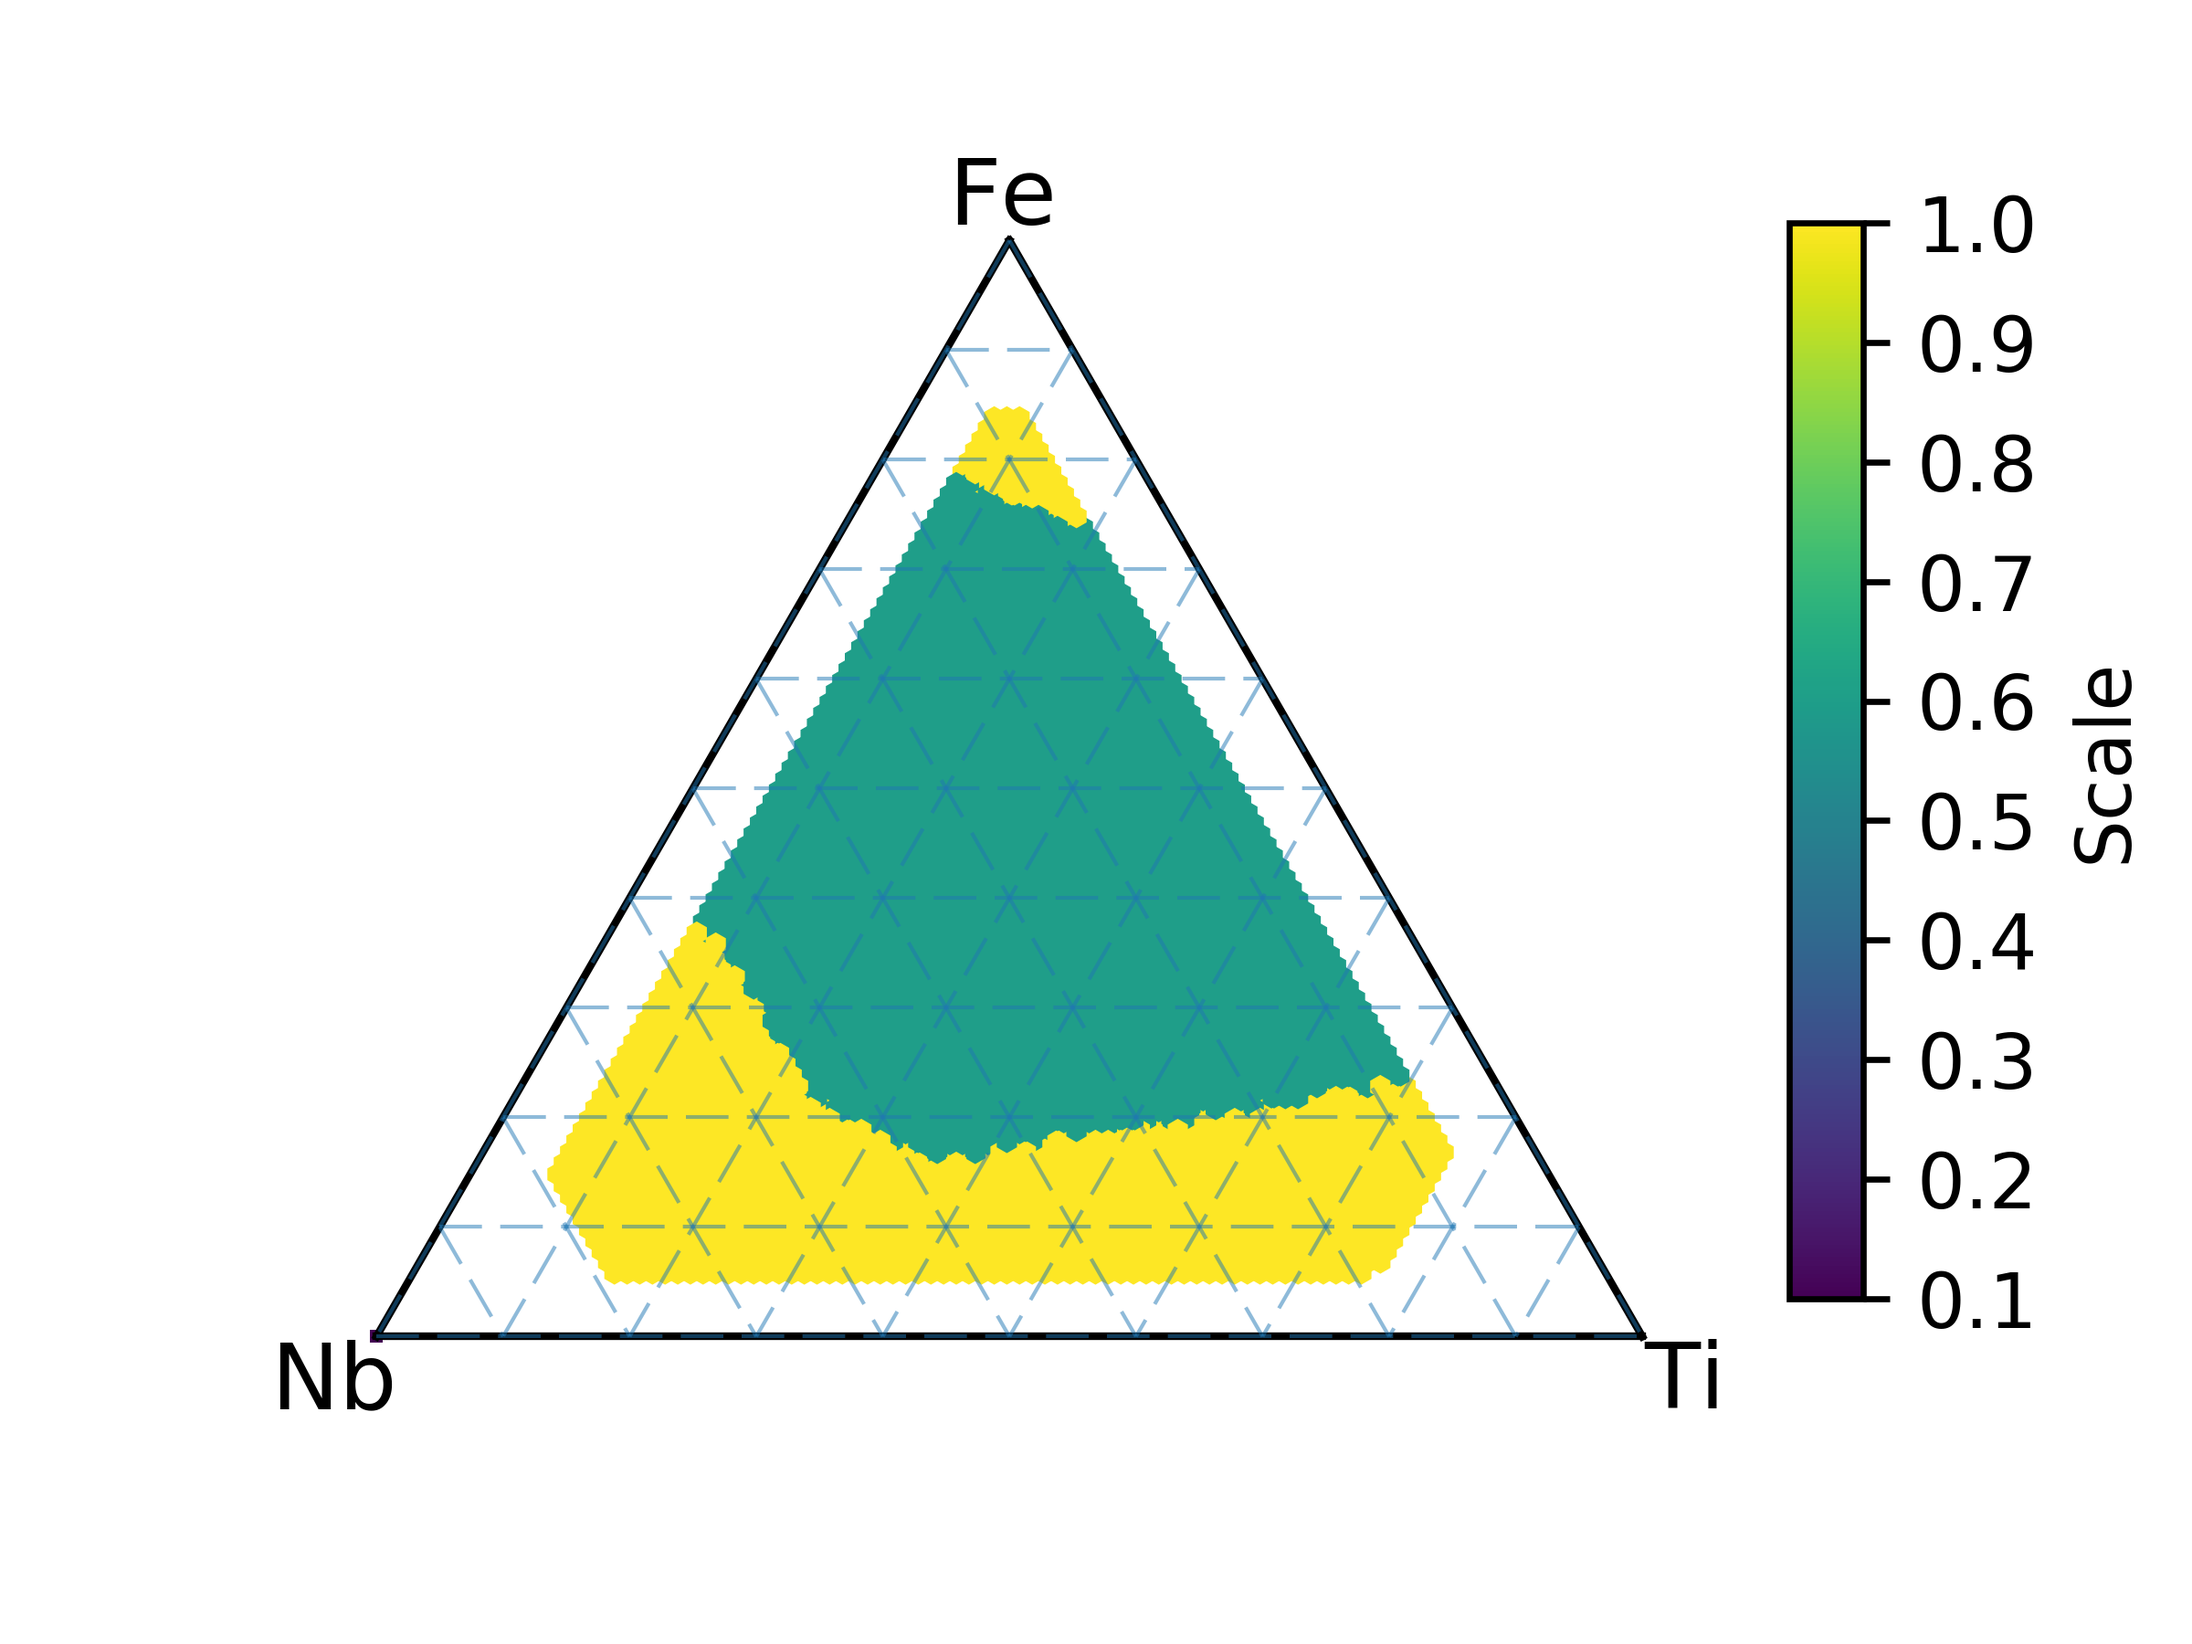
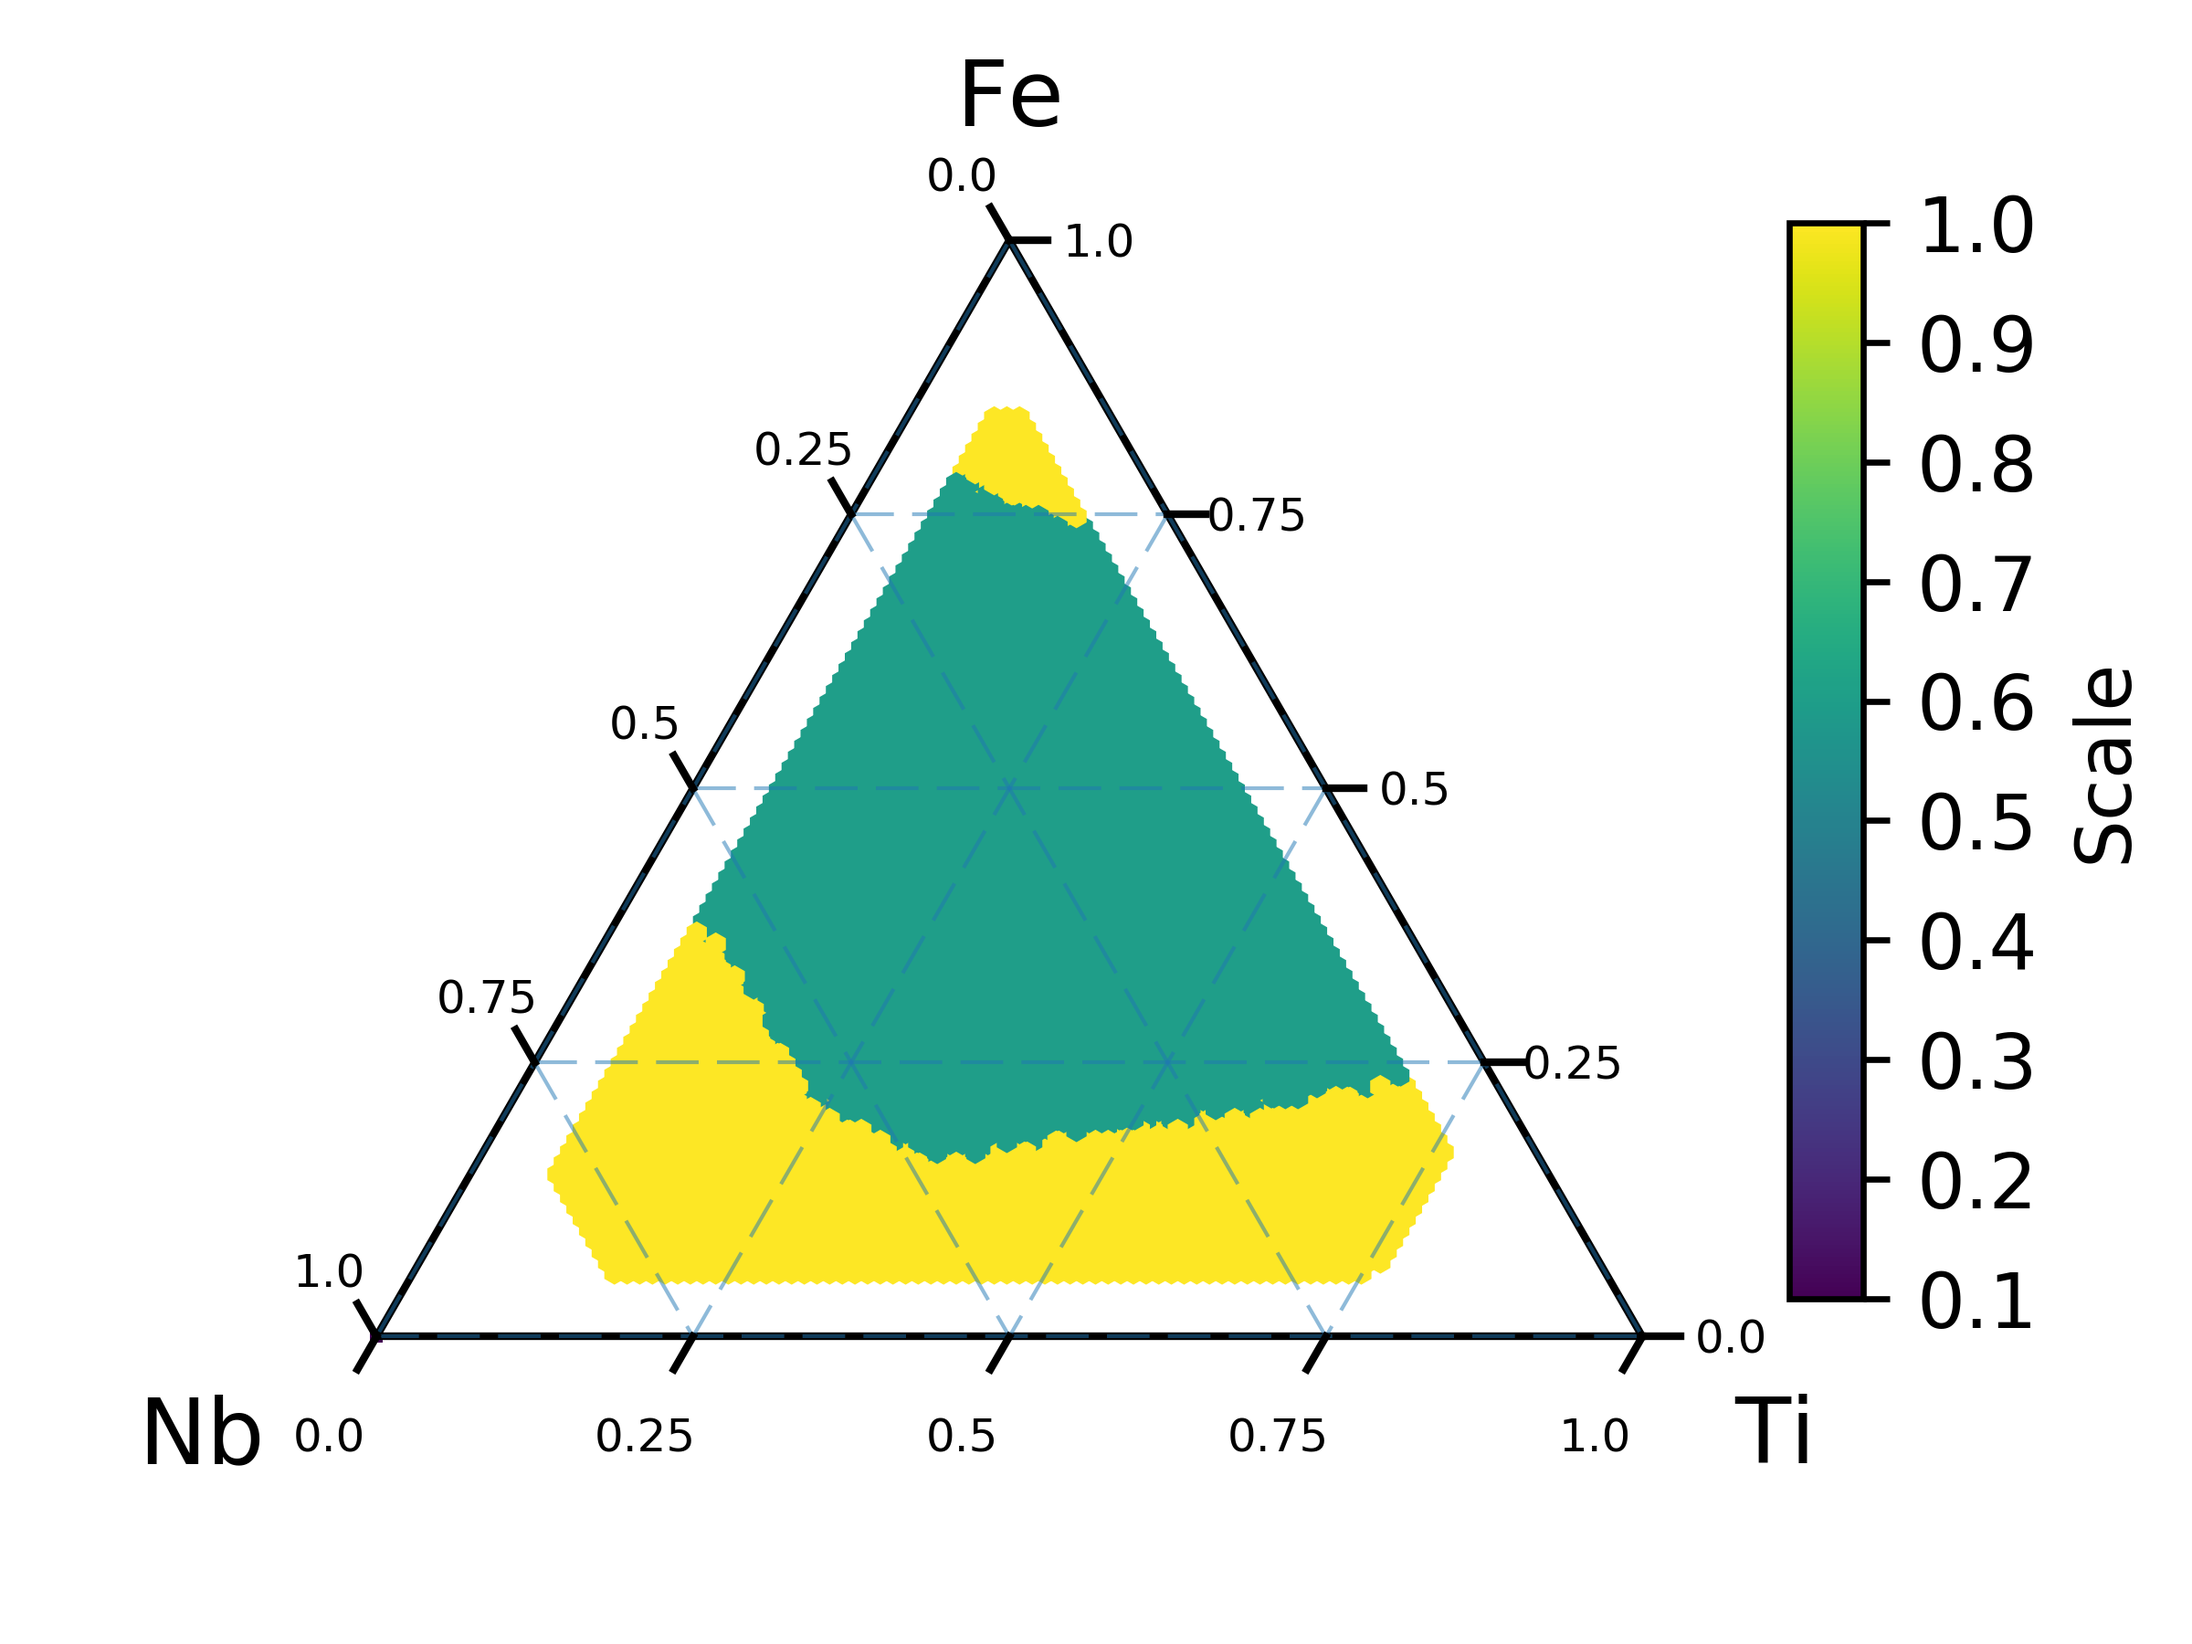
Updated increments

diff --git a/scripts/figure_plotters/plotTernary.py b/scripts/figure_plotters/plotTernary.py
@@ -97,12 +97,12 @@ def plt_ternary_save(data, tertitle='',  labelNames=('Species A','Species B','Sp
 
     if show_ticks:
         tax.boundary(linewidth=1)
-        tax.gridlines(multiple=10, linewidth=lnwdth, alpha=alpha, linestyle=lnsty)
-        ticks = [round(i / float(scale), 1) for i in range(0, scale+1, 10)]
+        tax.gridlines(multiple=25, linewidth=lnwdth, alpha=alpha, linestyle=lnsty)
+        ticks = [round(i / float(scale), 2) for i in range(0, scale+1, 25)]
         tax.ticks(ticks=ticks, axis='rlb', linewidth=1, clockwise=False, offset=0.03, textsize=ticksize)
     else:
         tax.boundary(linewidth=1)
-        tax.gridlines(multiple=10, linewidth=lnwdth, alpha=0.50, linestyle=lnsty)
+        tax.gridlines(multiple=25, linewidth=lnwdth, alpha=0.50, linestyle=lnsty)
 
     # Set chart title
     tax.set_title(tertitle)
@@ -131,7 +131,7 @@ def plt_tern_scatter(data, tertitle='',  labelNames=('Species A','Species B','Sp
     figure, tax = ternary.figure(scale=scale)
     tax.set_title(tertitle, fontsize=20)
     tax.boundary(linewidth=2.0)
-    tax.gridlines(multiple=10, color="k")
+    tax.gridlines(multiple=25, color="k")
 
     # Axis Labels (bottom corrisponds to x values, left corrisponds to y values)
     tax.bottom_axis_label(labelNames[1], offset=0, **font)
@@ -158,7 +158,7 @@ def plt_tern_scatter(data, tertitle='',  labelNames=('Species A','Species B','Sp
     # end wax MG stuff
 
     tax.scatter(points, marker='o', color=clrs, s=100)
-    tax.ticks(axis='lbr', linewidth=1, multiple=10, textsize=14)
+    tax.ticks(axis='lbr', linewidth=1, multiple=25, textsize=14)
 
     # Set chart title
     tax.set_title(tertitle)

diff --git a/scripts/figure_plotters/Figure2b1_thermodynamic_theory.py b/scripts/figure_plotters/Figure2b1_thermodynamic_theory.py
@@ -140,7 +140,7 @@ ternary_data = np.transpose(ternary_data)
 from plotTernary import plt_ternary_save
 plt_ternary_save(ternary_data, tertitle='',  labelNames=('Co','V','Zr'), scale=100,
                       sv=True, svpth=path, svflnm='Figure2b1',
-                      cbl='Glass formation', vmax = 1, vmin = 0, cmap='viridis_r', cb=True, style='h', show_ticks=False)
+                      cbl='Glass formation', vmax = 1, vmin = 0, cmap='viridis_r', cb=True, style='h')
 
 # np.savetxt(path+'thermodynamic.csv', ternary_data, delimiter=',')
 

diff --git a/scripts/figure_plotters/Figure2d_melt_spin_data_reconstruction.py b/scripts/figure_plotters/Figure2d_melt_spin_data_reconstruction.py
@@ -72,4 +72,4 @@ ternary_data = np.concatenate(([Co_list], [V_list], [Zr_list], [label]), axis=0)
 ternary_data = np.concatenate((ternary_data, measured))
 plt_ternary_save(ternary_data, tertitle='', labelNames=('Co', 'V', 'Zr'), scale=100,
                              sv=True, svpth=save_path, svflnm= 'Figure2d.png',
-                             cbl='Scale', vmax = 1, vmin = 0, cmap='gray_r', cb=True, style='h', show_ticks= False)
+                             cbl='Scale', vmax = 1, vmin = 0, cmap='gray_r', cb=True, style='h')

diff --git a/scripts/figure_plotters/Figure2b2_structural_theory.py b/scripts/figure_plotters/Figure2b2_structural_theory.py
@@ -83,4 +83,4 @@ ternary_data = np.transpose(ternary_data)
 
 plt_ternary_save(ternary_data, tertitle='', labelNames=('Co', 'V', 'Zr'), scale=100,
                              sv=True, svpth=save_path, svflnm= 'Figure2b2.png',
-                             cbl='Glass formation', vmax = 1, vmin = 0, cmap='viridis_r', cb=True, style='h', show_ticks= False)
+                             cbl='Glass formation', vmax = 1, vmin = 0, cmap='viridis_r', cb=True, style='h')

diff --git a/scripts/figure_plotters/Figure5c_FeTiNb.py b/scripts/figure_plotters/Figure5c_FeTiNb.py
@@ -116,7 +116,7 @@ ternary_data = np.transpose(ternary_data)
 
 plt_ternary_save(ternary_data, tertitle='',  labelNames=('Fe','Ti','Nb'), scale=100,
                        sv=True, svpth=save_path, svflnm='Figure5c',
-                       cbl='Scale', vmax = 1, vmin = 0.1, cmap='viridis_r', cb=True, style='h', show_ticks= False)
+                       cbl='Scale', vmax = 1, vmin = 0.1, cmap='viridis_r', cb=True, style='h')
 
 
 plt.close('all')
